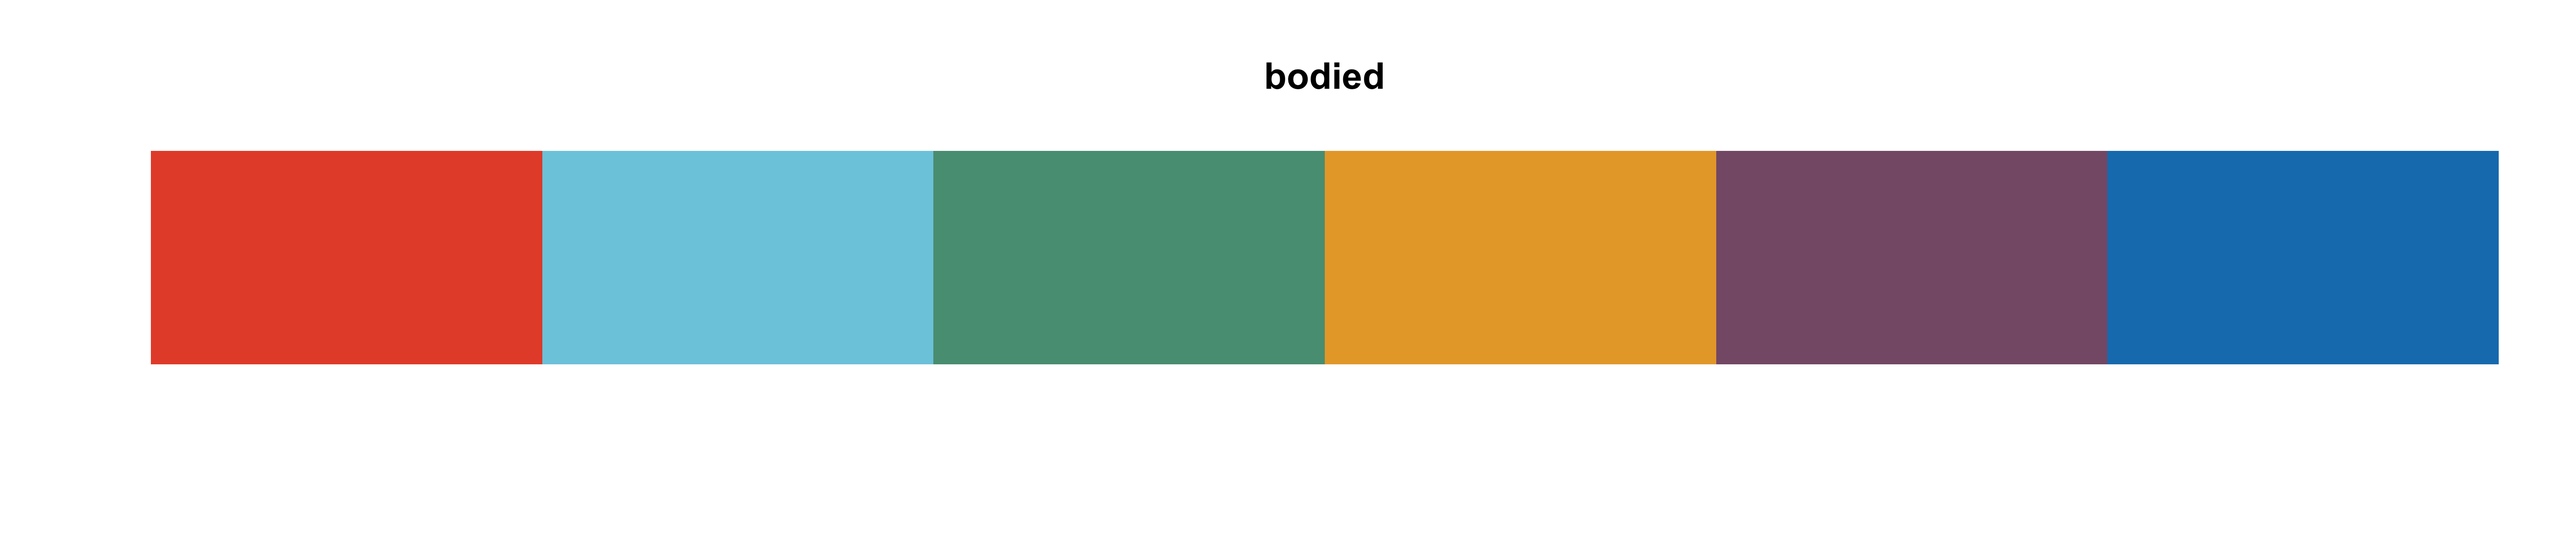
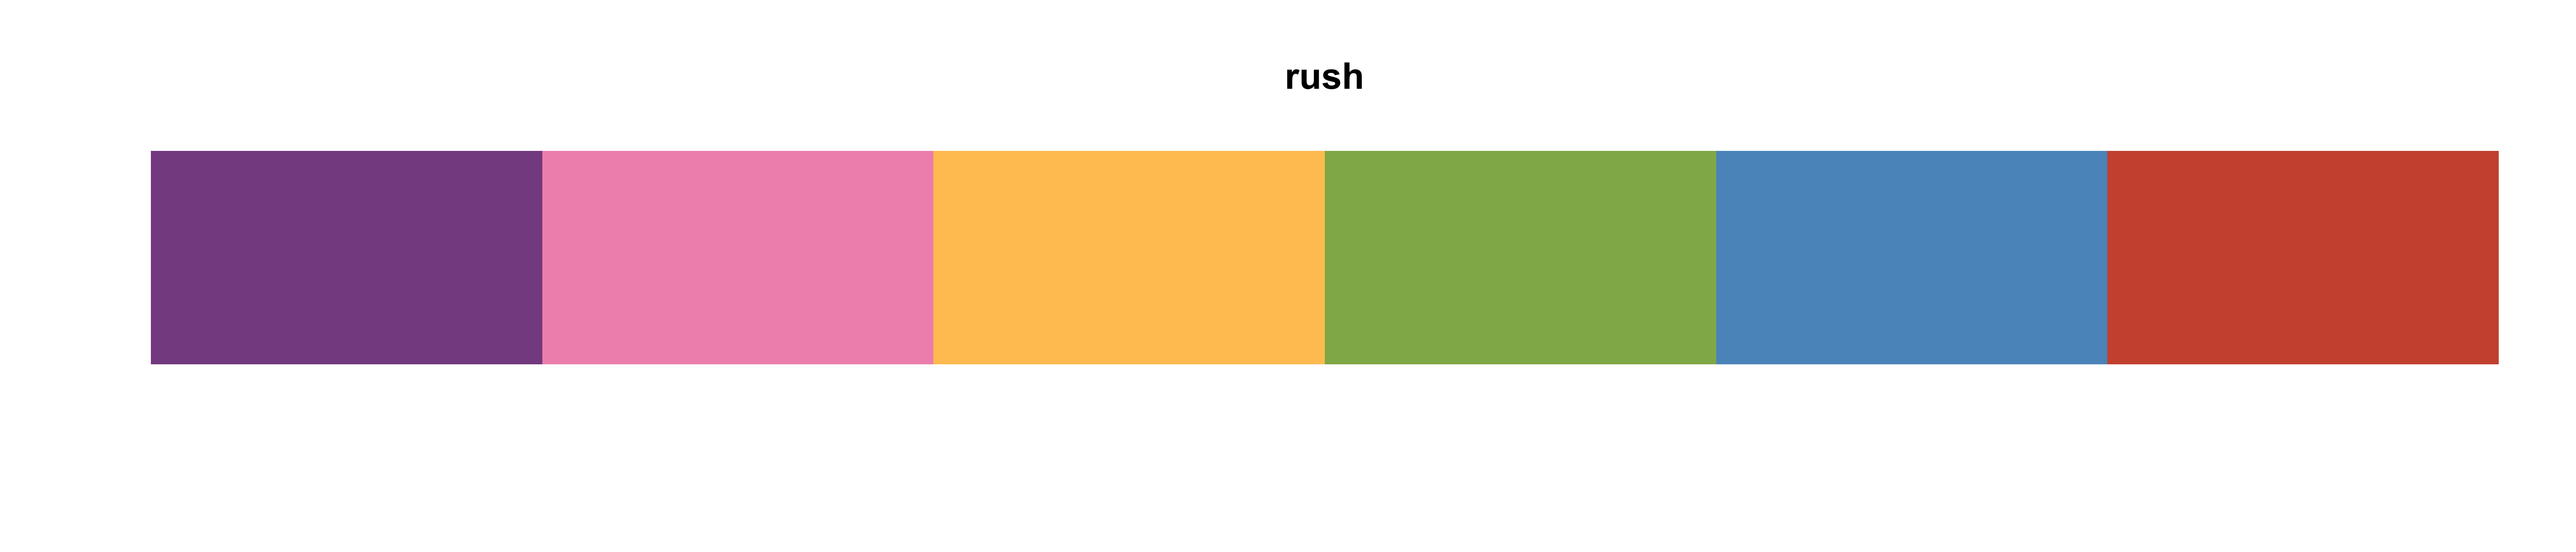
Update README (small changes)

diff --git a/README.md b/README.md
@@ -11,10 +11,23 @@ devtools::install_github("sophiemeakin/technocolour")
 
 ## Usage
 
-The `technocolours()` function makes a discrete colour palette based on
-your chosen track, specified with `name = "track_name"`. The option `n`
-allows you to specify the number of colours in the palette, which is 6
-by default.
+The `technocolours()` function makes discrete and continuous colour
+palettes based on electronic music records, specified with
+`name = "track_name"`.
+
+### Examples
+
+``` r
+ggplot(data = iris,
+       aes(x = Petal.Length, y = Petal.Width, col = Species)) +
+  geom_point(size = 3) +
+  scale_color_techno(name = "rush") +
+  theme_bw() +
+  theme(legend.position = "top",
+        text = element_text(size = 14))
+```
+
+![](man/figures/example1-1.png)
 
 ### Availble palettes
 
@@ -31,13 +44,13 @@ list_palettes()
 Visualise a named palette with `print_palette()`:
 
 ``` r
-print_palette(name = "esther")
+print_palette(name = "bodied")
 ```
 
 ![](man/figures/vis_palettes-1.png)
 
 ``` r
-print_palette(name = "rush")
+print_palette(name = "esther")
 ```
 
 ![](man/figures/vis_palettes-2.png)
@@ -67,24 +80,10 @@ print_palette(name = "poodle")
 ![](man/figures/vis_palettes-6.png)
 
 ``` r
-print_palette(name = "bodied")
+print_palette(name = "rush")
 ```
 
 ![](man/figures/vis_palettes-7.png)
-
-### Examples
-
-``` r
-ggplot(data = iris,
-       aes(x = Petal.Length, y = Petal.Width, col = Species)) +
-  geom_point(size = 3) +
-  scale_color_techno(name = "bodied") +
-  theme_bw() +
-  theme(legend.position = "top",
-        text = element_text(size = 14))
-```
-
-![](man/figures/example1-1.png)
 
 ### Palette info
 
